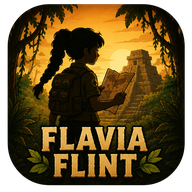
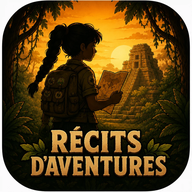
feat: nouvelle icône app + purpose manifest corrigé
Claude-Session: https://claude.ai/code/session_012emBkDyA2jGLF4HkomxafX

diff --git a/index.html b/index.html
@@ -2299,6 +2299,7 @@ async function checkExistingSession() {
       try {
         loadCurrentPlayer(JSON.parse(user));
         document.getElementById('app').classList.remove('auth-mode');
+        if (deferredPrompt) showInstallButton();
         await loadAdventures();
         goToScreen('home', document.getElementById('nav-home'));
         startGlobalGPS();
@@ -2315,6 +2316,7 @@ async function checkExistingSession() {
   // Mode invité
   if (localStorage.getItem('ff_guest')) {
     document.getElementById('app').classList.remove('auth-mode');
+    if (deferredPrompt) showInstallButton();
     await loadAdventures();
     goToScreen('home', document.getElementById('nav-home'));
     startGlobalGPS();
@@ -2544,6 +2546,7 @@ async function handleLogin() {
 
     await loadCurrentPlayer(data.user);
     document.getElementById('app').classList.remove('auth-mode');
+    if (deferredPrompt) showInstallButton();
     await loadAdventures();
     setTimeout(() => {
       goToScreen('home', document.getElementById('nav-home'));
@@ -2619,6 +2622,7 @@ function enterGuestMode() {
   localStorage.removeItem('ff_access_token');
   localStorage.removeItem('ff_user');
   document.getElementById('app').classList.remove('auth-mode');
+  if (deferredPrompt) showInstallButton();
   const balanceHome = document.getElementById('compass-balance-home');
   if (balanceHome) balanceHome.textContent = '🧭 Connecte-toi pour en gagner';
   loadAdventures();
@@ -6837,12 +6841,12 @@ function maybeShowFlaviaIntroNotification() {
   _introChapterPending = null; // consommé, ne s'affiche qu'une seule fois
   showFlaviaMessageNotification(chapter);
 }
-// Notification façon push : vibration + son d'arrivée + carte qui glisse
-// depuis le haut. Le joueur doit toucher la carte pour lancer la cinématique
-// du Chapitre 0 — évite l'enchaînement brutal splash → générique.
+// Notification façon push : carte qui glisse depuis le haut. La vibration et
+// le son sont déclenchés au TAP (cf. openFlaviaIntroFromNotif), pas ici —
+// Chrome bloque navigator.vibrate() et l'AudioContext tant qu'aucun geste
+// utilisateur réel n'a eu lieu sur la page, et l'affichage automatique de
+// cette carte (au chargement, sans tap préalable) ne compte pas comme tel.
 function showFlaviaMessageNotification(chapter) {
-  vibrateFeedback([80, 40, 80, 40, 160]);
-  soundArrival();
   const overlay = document.createElement('div');
   overlay.id = 'flavia-notif-overlay';
   overlay.className = 'flavia-notif-overlay';
@@ -6863,6 +6867,10 @@ function showFlaviaMessageNotification(chapter) {
   window._pendingIntroChapterForNotif = chapter;
 }
 function openFlaviaIntroFromNotif() {
+  // Vibration + son ici : premier vrai geste utilisateur de la session, donc
+  // le navigateur les autorise (contrairement à un déclenchement automatique).
+  vibrateFeedback([80, 40, 80, 40, 160]);
+  soundArrival();
   const overlay = document.getElementById('flavia-notif-overlay');
   const chapter = window._pendingIntroChapterForNotif;
   window._pendingIntroChapterForNotif = null;
@@ -7255,6 +7263,10 @@ let deferredPrompt = null;
 window.addEventListener('beforeinstallprompt', e => {
   e.preventDefault();
   deferredPrompt = e;
+  // showInstallButton() se protège elle-même : le bouton ne sera réellement
+  // affiché que si le joueur est déjà connecté/inscrit. Si l'événement arrive
+  // avant la connexion, il suffira que le joueur se connecte pour que le
+  // bouton apparaisse (cf. les appels après chaque connexion réussie).
   showInstallButton();
 });
 
@@ -7266,6 +7278,11 @@ window.addEventListener('appinstalled', () => {
 });
 
 function showInstallButton() {
+  // Ne jamais afficher tant que le joueur n'est pas connecté/inscrit — pas au
+  // chargement de la landing/auth, seulement une fois entré dans l'app
+  // (appelé après chaque connexion réussie, cf. les 4 points d'entrée
+  // authentifiés plus haut dans le fichier).
+  if (document.getElementById('app').classList.contains('auth-mode')) return;
   // Ne pas afficher si déjà installé en mode standalone
   if (window.matchMedia('(display-mode: standalone)').matches) return;
   if (document.getElementById('install-banner')) return;
